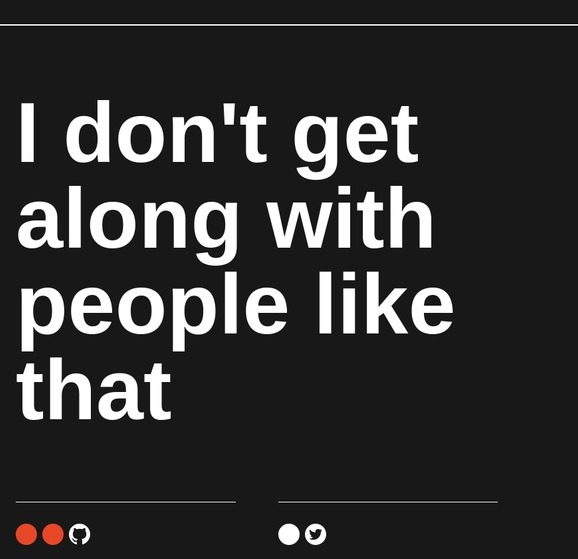
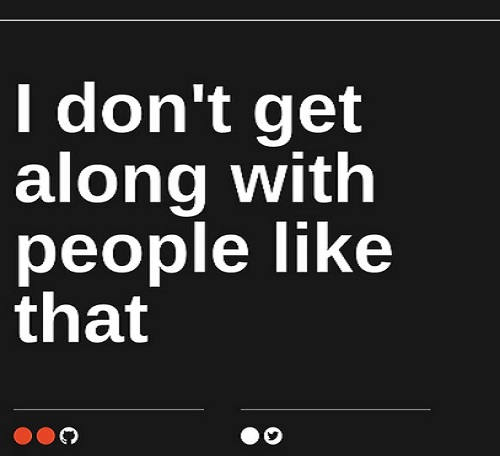
added wiki and edited images

diff --git a/portfolio/index.html b/portfolio/index.html
@@ -79,6 +79,13 @@
       <br>
       <p class="text-center">As part of the freeCodeCamp program, I built an app that fetches the weather of the user's location.</p>
       </div>
+    </div>
+  <div class="col-md-6">
+  <div class="card">
+      <a href="https://dafdo.me/portfolio/wiki/"><img src="images/wiki.jpg" class="img-responsive center-block img-rounded" alt="weather"></a>
+      <br>
+      <p class="text-center">I built Wikipedia Viewer where the user can search for articles or get a random one. Also part of the freeCodeCamp program. </p>
+      </div>
   </div>
   </div>
 </div>
